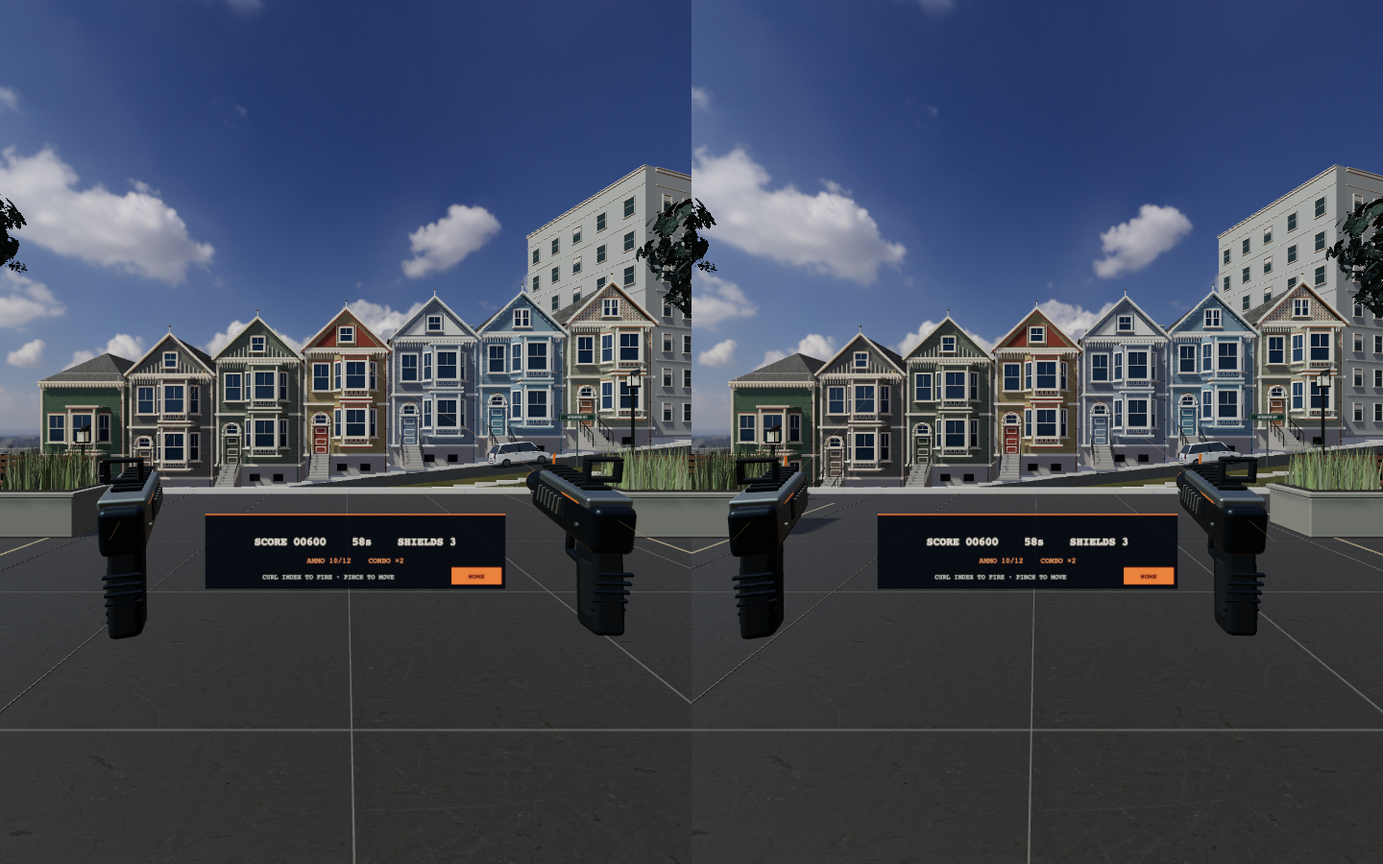
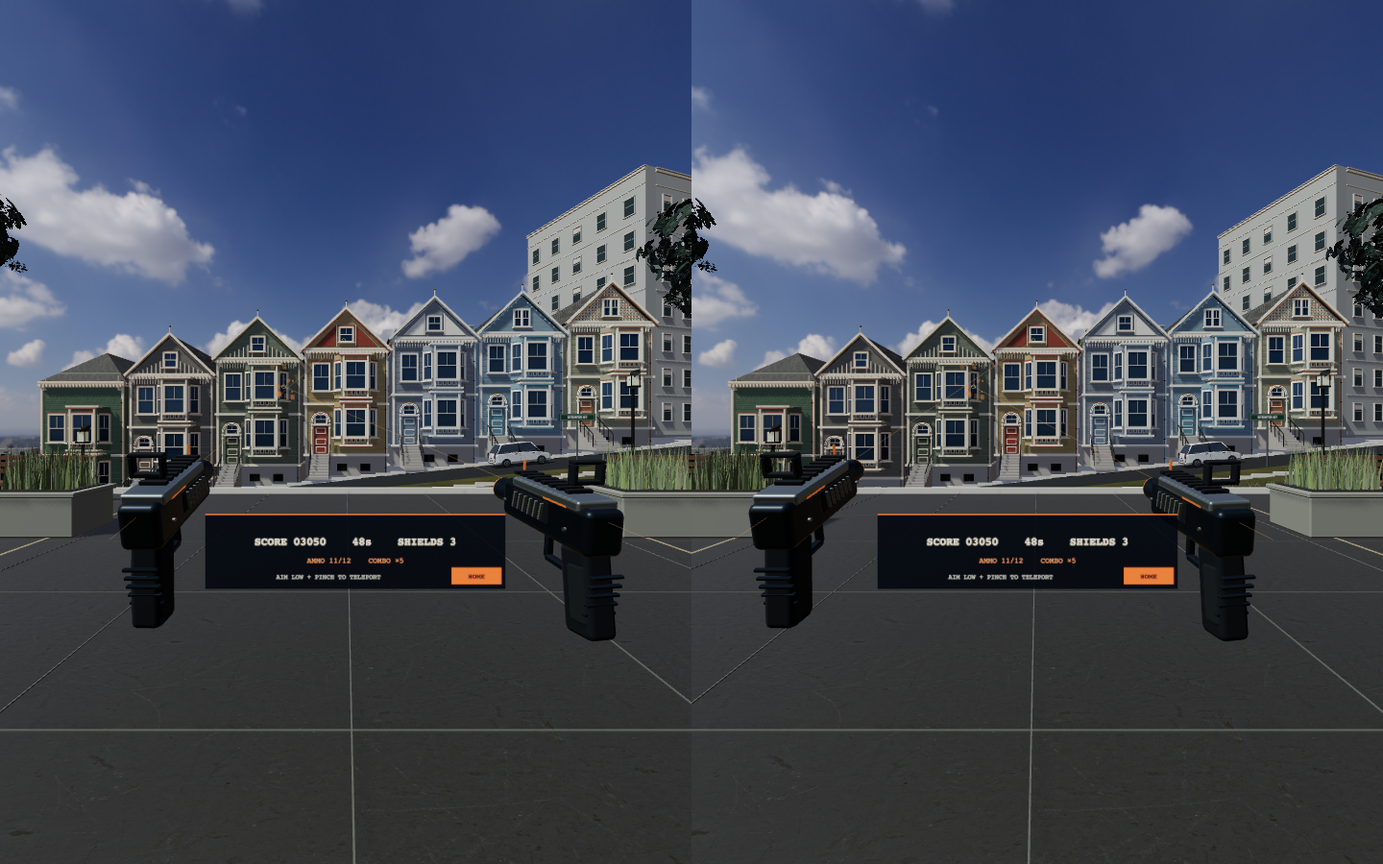
Support two-finger and pinch firing together

diff --git a/index.html b/index.html
@@ -1,4 +1,4 @@
-<!doctype html><html lang="en"><head><meta charset="UTF-8"><meta name="viewport" content="width=device-width,initial-scale=1,viewport-fit=cover"><meta name="theme-color" content="#101b20"><meta name="description" content="A Samsung Galaxy XR arcade drone shooter at San Francisco's Painted Ladies. Play in your browser or enter WebXR."><title>SFVR — Defend the skyline</title><meta property="og:type" content="website"><meta property="og:title" content="SFVR — Built for Samsung Galaxy XR"><meta property="og:description" content="Defend San Francisco with your hands. Aim, curl your index finger and clear the drones in a 60-second WebXR game."><meta property="og:url" content="https://kaushiksiva.github.io/SFVR/"><meta property="og:image" content="https://raw.githubusercontent.com/KaushikSiva/SFVR/main/docs/demo/poster.jpg"><meta name="twitter:card" content="summary_large_image"><link rel="icon" href="/mark.svg"><link rel="stylesheet" href="/src/style.css"></head><body>
+<!doctype html><html lang="en"><head><meta charset="UTF-8"><meta name="viewport" content="width=device-width,initial-scale=1,viewport-fit=cover"><meta name="theme-color" content="#101b20"><meta name="description" content="A Samsung Galaxy XR arcade drone shooter at San Francisco's Painted Ladies. Play in your browser or enter WebXR."><title>SFVR — Defend the skyline</title><meta property="og:type" content="website"><meta property="og:title" content="SFVR — Built for Samsung Galaxy XR"><meta property="og:description" content="Defend San Francisco with your hands. Extend two fingers or pinch to clear the drones in a 60-second WebXR game."><meta property="og:url" content="https://kaushiksiva.github.io/SFVR/"><meta property="og:image" content="https://raw.githubusercontent.com/KaushikSiva/SFVR/main/docs/demo/poster.jpg"><meta name="twitter:card" content="summary_large_image"><link rel="icon" href="/mark.svg"><link rel="stylesheet" href="/src/style.css"></head><body>
 <canvas id="scene" aria-label="Three-dimensional shooting arena at Alamo Square. Use the Start round button to play."></canvas><div class="vignette"></div><div id="damage-flash"></div>
 <header><a class="wordmark" href="./" aria-label="SFVR home"><span class="mark">↗</span> SF<span>VR</span><small>GALAXY XR</small></a><div class="location"><i></i> ALAMO SQUARE <span>37.7762° N · 122.4328° W</span></div><button id="help" class="icon-button" aria-label="How to play">?</button></header>
 <div id="loading" role="status"><span class="spinner"></span><span id="loading-text">Preparing the skyline</span></div>
@@ -6,7 +6,7 @@
 <div id="hud" hidden><div class="top-hud"><div class="wave"><span>WAVE</span><strong id="wave">01</strong></div><div class="timer"><span>TIME LEFT</span><strong id="time">60<span>s</span></strong><div class="time-track"><i id="time-bar"></i></div></div><div class="score"><span>SCORE</span><strong id="score">00000</strong></div></div><div id="reticle"><i></i><i></i><i></i><i></i><b></b></div><div id="hit-marker">×</div><div id="combo" class="combo"></div><div class="bottom-hud"><div class="shield-block"><span>SHIELDS</span><div id="shields"><i></i><i></i><i></i></div></div><div class="fight-help">AIM / FIRE <span>CLICK</span><b>·</b> MOVE <span>WASD</span><b>·</b> HOME <span>H</span><b>·</b> PAUSE <span>ESC</span></div><button id="reload" class="ammo"><strong id="ammo">12</strong><span id="ammo-label">/ 12 &nbsp; RELOAD [R]</span></button></div></div>
 <section id="pause" class="overlay" hidden><p class="kicker">TAKE A BREATHER</p><h2>ROUND PAUSED.</h2><p>The timer is stopped. Pick up where you left off.</p><button id="resume" class="button primary">RESUME <span>↗</span></button><button id="quit" class="text-button">Back to title</button></section>
 <section id="result" class="overlay" hidden><p id="result-eyebrow" class="kicker">SKYLINE SECURED</p><h2 id="rank">PARK GUARDIAN</h2><p class="result-label">FINAL SCORE</p><div id="final-score" class="final-score">00000</div><div class="result-stats"><div><strong id="final-kills">0</strong><span>DRONES CLEARED</span></div><div><strong id="final-accuracy">0%</strong><span>ACCURACY</span></div><div><strong id="final-best">0</strong><span>PERSONAL BEST</span></div></div><button id="again" class="button primary">PLAY AGAIN <span>↻</span></button><button id="back" class="text-button">Back to the skyline</button></section>
-<footer id="footer"><span>POINT. SHOOT. REPEAT.</span><span>SAMSUNG GALAXY XR · FINGER TRIGGER.</span><button id="sound" aria-label="Mute sound" aria-pressed="false">SOUND ON <i>▥</i></button></footer>
+<footer id="footer"><span>POINT. SHOOT. REPEAT.</span><span>SAMSUNG GALAXY XR · HAND-TRACKED.</span><button id="sound" aria-label="Mute sound" aria-pressed="false">SOUND ON <i>▥</i></button></footer>
 <div id="toast" role="status" hidden></div>
-<dialog id="help-dialog"><button id="close-help" class="close" aria-label="Close instructions">×</button><p class="kicker">FIELD NOTES / 01</p><h2>OWN THE SKY.</h2><p>Shoot drones before they breach the park. Survive 60 seconds with at least one shield.</p><dl><div><dt>Aim & fire</dt><dd>Move your mouse and click. Hold to fire repeatedly. On touchscreens, tap a drone.</dd></div><div><dt>Move around</dt><dd>On desktop, use WASD or arrow keys to move around the park. Press H to return to the starting position. Movement avoids planters and benches.</dd></div><div><dt>Keep it going</dt><dd>12 shots per magazine. Press R or tap your ammo to reload; an empty magazine reloads automatically.</dd></div><div><dt>Build a combo</dt><dd>Clear drones within 3 seconds of each other for up to 5× points. Gold drones are worth extra; purple drones take two hits.</dd></div><div><dt>In your headset</dt><dd>Open this page in Chrome on Galaxy XR, then select Enter Galaxy XR. Make a finger gun: raise your thumb, extend your index, and curl your other fingers. Aim the ray, then curl your index to fire one shot. Extend it again for the next shot. The aiming ring turns mint when ready. Pinch once to start or replay; controllers use their trigger. To move, point at clear ground, pinch and hold, then release on the orange ring. Red means blocked. Select HOME on the headset HUD to return. With controllers, the left stick moves and the right stick turns in 45° steps.</dd></div></dl><p class="small">WebXR needs a secure URL or localhost through ADB reverse. Finger trigger to shoot; pinch to move. Keep your play area clear while using the headset.</p></dialog>
+<dialog id="help-dialog"><button id="close-help" class="close" aria-label="Close instructions">×</button><p class="kicker">FIELD NOTES / 01</p><h2>OWN THE SKY.</h2><p>Shoot drones before they breach the park. Survive 60 seconds with at least one shield.</p><dl><div><dt>Aim & fire</dt><dd>Move your mouse and click. Hold to fire repeatedly. On touchscreens, tap a drone.</dd></div><div><dt>Move around</dt><dd>On desktop, use WASD or arrow keys to move around the park. Press H to return to the starting position. Movement avoids planters and benches.</dd></div><div><dt>Keep it going</dt><dd>12 shots per magazine. Press R or tap your ammo to reload; an empty magazine reloads automatically.</dd></div><div><dt>Build a combo</dt><dd>Clear drones within 3 seconds of each other for up to 5× points. Gold drones are worth extra; purple drones take two hits.</dd></div><div><dt>In your headset</dt><dd>Open this page in Chrome on Galaxy XR, then select Enter Galaxy XR. Aim at drones and either extend your index and middle fingers with your ring and little fingers curled, or pinch. Hold either gesture for repeated shots; relax your fingers or release the pinch to stop. The aiming ring turns mint during two-finger fire. Pinch once to start or replay; controllers use their trigger. To move, point at clear ground, pinch and hold, then release on the orange ring. Red means blocked. Select HOME on the headset HUD to return. With controllers, the left stick moves and the right stick turns in 45° steps.</dd></div></dl><p class="small">WebXR needs a secure URL or localhost through ADB reverse. Two fingers or pinch to shoot; aim at the ground and pinch to move. Keep your play area clear while using the headset.</p></dialog>
 <script type="module" src="/src/main.ts"></script></body></html>

diff --git a/src/main.ts b/src/main.ts
@@ -51,8 +51,8 @@ xrHud.name='XR status and movement';xrHud.position.set(0,-.39,-1.45);xrHud.rende
 let hudLast='',hudTime=0,domUpdateAt=0;
 function drawXRHUD(){
  const message=locomotion.aiming?'RELEASE PINCH TO MOVE':game.phase==='ready'?'POINT + PINCH TO START':game.phase==='over'?'ROUND OVER · SELECT TO PLAY AGAIN':game.phase==='paused'?'PAUSED · SELECT TO RESUME':`SCORE ${String(game.score).padStart(5,'0')}    ${game.remaining}s    SHIELDS ${game.shields}`;
- const detail=locomotion.aiming?(locomotion.valid?'CLEAR DESTINATION':'CHOOSE CLEAR GROUND INSIDE THE PARK'):game.phase==='playing'?(game.reloadLeft>0?'RELOADING…':`AMMO ${game.ammo}/12    ${game.combo>1?'COMBO ×'+game.combo:([...handTriggers.values()].some(t=>t.state==='ready')?'TRIGGER READY · CURL INDEX':'THUMB UP · EXTEND INDEX')}`):'SFVR / ALAMO SQUARE';
- const text=message+detail;if(text===hudLast&&clock-hudTime<1)return;hudLast=text;hudTime=clock;hudContext.clearRect(0,0,1024,256);hudContext.fillStyle='rgba(11,25,35,0.86)';hudContext.fillRect(0,0,1024,256);hudContext.fillStyle='#ff7b3d';hudContext.fillRect(0,0,1024,4);hudContext.textAlign='center';hudContext.font='bold 37px monospace';hudContext.fillStyle='#fff3dc';hudContext.fillText(message,512,106);hudContext.font='25px monospace';hudContext.fillStyle='#ffa46c';hudContext.fillText(detail,512,167);hudContext.font='22px monospace';hudContext.fillStyle='#dedbd0';hudContext.fillText('CURL INDEX TO FIRE · PINCH TO MOVE',420,222);hudContext.fillStyle='#ff7b3d';hudContext.fillRect(840,183,170,57);hudContext.font='bold 24px monospace';hudContext.fillStyle='#14212a';hudContext.fillText('HOME',925,221);hudTexture.needsUpdate=true;
+ const detail=locomotion.aiming?(locomotion.valid?'CLEAR DESTINATION':'CHOOSE CLEAR GROUND INSIDE THE PARK'):game.phase==='playing'?(game.reloadLeft>0?'RELOADING…':`AMMO ${game.ammo}/12    ${game.combo>1?'COMBO ×'+game.combo:([...handTriggers.values()].some(t=>t.state==='firing')?'TWO-FINGER BURST':'2 FINGERS OR PINCH TO FIRE')}`):'SFVR / ALAMO SQUARE';
+ const text=message+detail;if(text===hudLast&&clock-hudTime<1)return;hudLast=text;hudTime=clock;hudContext.clearRect(0,0,1024,256);hudContext.fillStyle='rgba(11,25,35,0.86)';hudContext.fillRect(0,0,1024,256);hudContext.fillStyle='#ff7b3d';hudContext.fillRect(0,0,1024,4);hudContext.textAlign='center';hudContext.font='bold 37px monospace';hudContext.fillStyle='#fff3dc';hudContext.fillText(message,512,106);hudContext.font='25px monospace';hudContext.fillStyle='#ffa46c';hudContext.fillText(detail,512,167);hudContext.font='22px monospace';hudContext.fillStyle='#dedbd0';hudContext.fillText('AIM LOW + PINCH TO TELEPORT',420,222);hudContext.fillStyle='#ff7b3d';hudContext.fillRect(840,183,170,57);hudContext.font='bold 24px monospace';hudContext.fillStyle='#14212a';hudContext.fillText('HOME',925,221);hudTexture.needsUpdate=true;
 }
 const controllers=[renderer.xr.getController(0),renderer.xr.getController(1)];
 const controllerHeld=new Set<THREE.XRTargetRaySpace>();
@@ -69,14 +69,13 @@ for(const controller of controllers){
  const cursor=new THREE.Mesh(new THREE.RingGeometry(.045,.06,24),new THREE.MeshBasicMaterial({color:'#ffb469',transparent:true,opacity:.85,depthWrite:false}));cursor.position.z=-12;controller.add(cursor);controller.userData.cursor=cursor;
  controller.addEventListener('connected',event=>{inputSources.set(controller,event.data);handTriggers.get(controller)!.reset();});
  controller.addEventListener('selectstart',event=>{
-  sound.unlock();const hand=!!event.data.hand;
-  if(hand){handSelecting.add(controller);handTriggers.get(controller)!.reset();}
-  if(locomotion.selectStart(controller)){resetHandTriggers();drawXRHUD();return;}
+  sound.unlock();const hand=!!event.data.hand||event.data.profiles.some(profile=>profile.includes('hand'));
+  if(hand){handSelecting.add(controller);handTriggers.get(controller)!.release();}
+  if(locomotion.selectStart(controller)){controllerHeld.clear();resetHandTriggers();drawXRHUD();return;}
   if(game.phase==='ready'||game.phase==='over'){start();return;}
   if(game.phase==='paused'){resume();return;}
-  // A hand without joint permission can still emit select; do not let that
-  // silently restore pinch firing. Only standard controller triggers fire here.
-  if(!hand&&event.data.gamepad?.mapping==='xr-standard'){controllerHeld.add(controller);fireFromController(controller);}
+  // Navigation and round controls consume the selection before shooting.
+  if(hand||event.data.gamepad?.mapping==='xr-standard'){controllerHeld.add(controller);fireFromController(controller);}
  });
  controller.addEventListener('selectend',()=>{
   controllerHeld.delete(controller);handSelecting.delete(controller);handBlockedUntil.set(controller,performance.now()+150);
@@ -97,7 +96,7 @@ async function checkXR(){
  if(supported){button.classList.replace('secondary','primary');$('play').classList.replace('primary','secondary');$('play').textContent='PLAY IN WINDOW';button.parentElement!.prepend(button);}
  button.innerHTML=supported?'ENTER GALAXY XR <span>◉</span>':'GALAXY XR SETUP <span>◉</span>';
  if(document.body.dataset.emulated==='true')$('xr-note').textContent='GENERIC XR INPUT TEST · not a physical headset';
- else if(supported)$('xr-note').textContent='Thumb up + curl index to fire · pinch to start / move';
+ else if(supported)$('xr-note').textContent='Extend index + middle or pinch to fire · aim low + pinch to move';
  else if(matchMedia('(pointer:coarse)').matches)$('xr-note').textContent='Tap a drone to fire · tap ammo to reload';
 }
 $('xr').onclick=async()=>{
@@ -173,7 +172,11 @@ function frame(now:number,xrFrame?:XRFrame){const dt=last?Math.min((now-last)/10
  if(game.phase==='playing'){
   game.step(dt);processEvents();
   if(!renderer.xr.isPresenting){if(desktopHeld)shootDesktop();}
-  else for(const controller of controllerHeld)fireFromController(controller);
+  else for(const controller of controllerHeld){
+   // End a held burst on tracking loss or when its ray enters navigation.
+   if(!controller.visible||locomotion.aiming||locomotion.pointerTarget(controller)){controllerHeld.delete(controller);continue;}
+   fireFromController(controller);
+  }
  }
  for(const t of game.targets){const d=drones.get(t.id);if(!d)continue;d.position.set(t.x,t.y,t.z);d.rotation.z=Math.sin(t.age*1.2+t.phase)*.12;for(const rotor of d.userData.rotors as THREE.Mesh[])rotor.rotation.y+=dt*45;const accent=d.userData.accent as THREE.MeshStandardMaterial;accent.emissiveIntensity=t.age>7?1.2+Math.sin(clock*14)*.7:.8;}
  for(let i=0;i<preview.length;i++){preview[i].position.y=3.2+i*.7+(reduced?0:Math.sin(clock*.8+i)*.35);preview[i].rotation.z=Math.sin(clock+i)*.08;for(const rotor of preview[i].userData.rotors as THREE.Mesh[])rotor.rotation.y+=dt*20;}
@@ -185,7 +188,7 @@ function frame(now:number,xrFrame?:XRFrame){const dt=last?Math.min((now-last)/10
   for(const t of game.targets){const p=aimRay.intersectSphere(new THREE.Sphere(new THREE.Vector3(t.x,t.y,t.z),t.kind==='heavy'?.95:.85),tempV);if(p){const d=p.distanceTo(aimRay.origin);if(d<distance){distance=d;aimed=true}}}
   const navigation=locomotion.pointerTarget(controller);if(navigation){distance=navigation.distance;aimed=true;}
   (controller.userData.line as THREE.Line).scale.z=distance/12;
-  const cursor=controller.userData.cursor as THREE.Mesh;cursor.visible=!navigation?.floor;cursor.position.z=-distance;cursor.scale.setScalar(distance/12);(cursor.material as THREE.MeshBasicMaterial).color.set(handTriggers.get(controller)!.state==='ready'?'#9cf0cb':aimed?'#fff5d8':'#ffb469');
+  const cursor=controller.userData.cursor as THREE.Mesh;cursor.visible=!navigation?.floor;cursor.position.z=-distance;cursor.scale.setScalar(distance/12);(cursor.material as THREE.MeshBasicMaterial).color.set(['ready','firing'].includes(handTriggers.get(controller)!.state)?'#9cf0cb':aimed?'#fff5d8':'#ffb469');
  }
  if(clock>hitUntil)$('hit-marker').style.opacity='0';if(clock>damageUntil)$('damage-flash').style.opacity='0';
  if(!renderer.xr.isPresenting&&now-domUpdateAt>70){domUpdateAt=now;

diff --git a/tests/hand-trigger.test.ts b/tests/hand-trigger.test.ts
@@ -7,6 +7,7 @@ import {relaxedHandPose} from 'iwer/lib/device/configs/hand/relaxed.js';
 
 const open:TriggerSample={index:.98,middle:.55,ring:.55,thumbGap:1};
 const closed:TriggerSample={...open,index:.58};
+const twoFingers:TriggerSample={...open,middle:.98};
 const arm=(t:HandTrigger,start=0)=>{for(let ms=start;ms<=start+80;ms+=20)assert.equal(t.update(open,ms),false);};
 test('a deliberate curl fires once; extending rearms',()=>{
  const t=new HandTrigger();arm(t);assert.equal(t.state,'ready');
@@ -14,12 +15,36 @@ test('a deliberate curl fires once; extending rearms',()=>{
  for(let ms=150;ms<450;ms+=20)assert.equal(t.update(closed,ms),false);
  arm(t,450);assert.equal(t.update(closed,550),false);assert.equal(t.update(closed,580),true);
 });
-test('pinch, open palm and a fist on first sight cannot fire',()=>{
+test('joint classifier leaves pinch to select events; open palm and fist do not fire',()=>{
  for(const sample of [{...closed,thumbGap:.1},{...closed,middle:.98,ring:.98},closed]){
   const t=new HandTrigger();for(let ms=0;ms<400;ms+=20)assert.equal(t.update(sample,ms),false);
  }
  const t=new HandTrigger();arm(t);t.update({...closed,thumbGap:.1},100);
  assert.equal(t.update(closed,120),false);assert.equal(t.update(closed,160),false);
+});
+test('two extended fingers hold fire after a short dwell and stop when folded',()=>{
+ const t=new HandTrigger();
+ for(let ms=0;ms<120;ms+=20)assert.equal(t.update(twoFingers,ms),false);
+ assert.equal(t.update(twoFingers,120),true);assert.equal(t.state,'firing');
+ for(let ms=140;ms<400;ms+=20)assert.equal(t.update(twoFingers,ms),true);
+ assert.equal(t.update(closed,400),false);assert.notEqual(t.state,'firing');
+});
+test('two-finger hysteresis tolerates slight bending but rejects open palms and pinches',()=>{
+ const t=new HandTrigger();t.update(twoFingers,0);t.update(twoFingers,80);t.update(twoFingers,140);
+ assert.equal(t.update({...twoFingers,index:.86,middle:.87},160),true);
+ assert.equal(t.update({...twoFingers,ring:.98},180),false);
+ for(let ms=200;ms<400;ms+=20)assert.equal(t.update({...twoFingers,thumbGap:.1},ms),false);
+});
+test('interrupted two-finger bursts require release before restarting',()=>{
+ for(const interrupt of [(t:HandTrigger)=>t.update(null,160),(t:HandTrigger)=>t.update(twoFingers,160,true),(t:HandTrigger)=>t.reset(),(t:HandTrigger)=>t.update(twoFingers,400)]){
+  const t=new HandTrigger();t.update(twoFingers,0);t.update(twoFingers,80);assert.equal(t.update(twoFingers,140),true);interrupt(t);
+  for(let ms=420;ms<650;ms+=20)assert.equal(t.update(twoFingers,ms),false);
+  t.update(closed,660);t.update(twoFingers,680);t.update(twoFingers,760);assert.equal(t.update(twoFingers,820),true);
+ }
+});
+test('a deliberate pinch releases a two-finger burst so either gesture can be used next',()=>{
+ const t=new HandTrigger();t.update(twoFingers,0);t.update(twoFingers,80);assert.equal(t.update(twoFingers,140),true);
+ t.release();t.update(null,160,true);t.update(twoFingers,180);t.update(twoFingers,260);assert.equal(t.update(twoFingers,320),true);
 });
 test('tracking loss, navigation, pause and a frame gap require fresh extension',()=>{
  for(const reset of [(t:HandTrigger)=>t.update(null,100),(t:HandTrigger)=>t.update(open,100,true),(t:HandTrigger)=>t.reset(),(t:HandTrigger)=>t.update(closed,300)]){

diff --git a/src/hand-trigger.ts b/src/hand-trigger.ts
@@ -19,20 +19,38 @@ export function measureTrigger(joint:(name:XRHandJoint)=>Point|null):TriggerSamp
  return Object.values(sample).every(Number.isFinite)?sample:null;
 }
 
-/** One shot per deliberate index extension → curl. A pinch is never a trigger. */
+/** Two extended fingers hold fire; the earlier index-curl trigger also works.
+ * Native pinch/select events are handled separately by the input router. */
 export class HandTrigger {
- state:'untracked'|'blocked'|'ready'|'fired'|'rest'='untracked';
+ state:'untracked'|'blocked'|'ready'|'fired'|'firing'|'rest'='untracked';
  private armed=false;
  private openSince?:number;
  private closedSince?:number;
  private last?:number;
+ private twoFingerSince?:number;
+ private twoFingerNeedsRelease=false;
  reset(state:HandTrigger['state']='untracked'){
+  // An interrupted burst must not restart on tracking recovery or navigation exit.
+  if(this.twoFingerSince!==undefined)this.twoFingerNeedsRelease=true;
+  this.twoFingerSince=undefined;
   this.armed=false;this.openSince=undefined;this.closedSince=undefined;this.last=undefined;this.state=state;
  }
+ /** A deliberate pinch also releases the two-finger pose. */
+ release(){this.reset('rest');this.twoFingerNeedsRelease=false;}
  update(sample:TriggerSample|null,now:number,blocked=false){
   if(!sample||blocked){this.reset(blocked?'blocked':'untracked');return false;}
   if(this.last!==undefined&&(now-this.last>120||now<this.last))this.reset();
   this.last=now;
+  const extended=this.state==='firing'?.82:.90;
+  if(sample.index>=extended&&sample.middle>=extended&&sample.ring<.85&&sample.thumbGap>=.38){
+   this.armed=false;this.openSince=undefined;this.closedSince=undefined;
+   if(this.twoFingerNeedsRelease){this.state='rest';return false;}
+   this.twoFingerSince??=now;
+   if(now-this.twoFingerSince>=120){this.state='firing';return true;}
+   this.state='rest';return false;
+  }
+  this.twoFingerSince=undefined;this.twoFingerNeedsRelease=false;
+  if(this.state==='firing')this.state='rest';
   // Keep the thumb away from the index and grip with the other fingers.
   if(sample.thumbGap<.38||sample.middle>.85||sample.ring>.85){this.reset('rest');return false;}
   if(sample.index>=.90){

diff --git a/src/dev-xr.ts b/src/dev-xr.ts
@@ -29,7 +29,17 @@ export function installTestRuntime(){
   const middle=joints[`middle-finger-${part}`].offsetMatrix;
   for(let i=12;i<15;i++)index[i]=indexBase[i]+middle[i]-middleBase[i];
  }
- for(const hand of Object.values(device.hands))if(hand)hand[P_HAND_INPUT].poses.trigger=triggerPose;
+ const twoFingerPose=structuredClone(pointHandPose);
+ const twoJoints=twoFingerPose.jointTransforms;
+ for(const part of ['phalanx-intermediate','phalanx-distal','tip'] as const){
+  const middle=twoJoints[`middle-finger-${part}`].offsetMatrix;
+  const index=twoJoints[`index-finger-${part}`].offsetMatrix;
+  for(let i=12;i<15;i++)middle[i]=middleBase[i]+index[i]-indexBase[i];
+ }
+ for(const hand of Object.values(device.hands))if(hand){
+  hand[P_HAND_INPUT].poses.trigger=triggerPose;
+  hand[P_HAND_INPUT].poses.twoFinger=twoFingerPose;
+ }
  device.primaryInputMode='hand';device.installRuntime({forceInstall:true});
  (window as any).__xrEmulator=device;
  document.body.dataset.emulated='true';

diff --git a/README.md b/README.md
@@ -2,7 +2,7 @@
 
 **Defend the skyline with your hands. Built for Samsung Galaxy XR.**
 
-SFVR is a hand-tracked arcade shooter set in San Francisco's Alamo Square. Stand opposite the Painted Ladies, aim at incoming drones, and curl your index finger to fire. Your head controls the view; your hands control the action.
+SFVR is a hand-tracked arcade shooter set in San Francisco's Alamo Square. Stand opposite the Painted Ladies, aim at incoming drones, and extend two fingers or pinch to fire. Your head controls the view; your hands control the action.
 
 **[Play the game](https://kaushiksiva.github.io/SFVR/)** · **[Watch the 60-second demo](https://github.com/KaushikSiva/SFVR/releases/download/v0.2.0/sfvr-demo.mp4)** · [Headset setup](docs/HEADSET.md)
 
@@ -18,7 +18,7 @@ The environment uses full-volume buildings, detailed quadrotors and blasters, te
 
 ## Play on Samsung Galaxy XR
 
-Open the live game in **Chrome on Galaxy XR**, choose **Enter Galaxy XR**, and allow tracking. Pinch once to start. Make a finger gun: thumb up, index extended, other fingers curled. Aim the ray, then curl your index to shoot. Extend it again for the next shot; a mint aiming ring means ready. Pinching does not shoot. To move, aim at clear ground, hold a pinch, then release on the orange ring. Red means blocked. Select **HOME** on the headset HUD to return. Controllers use their trigger to fire, with left-stick travel and right-stick 45° turns.
+Open the live game in **Chrome on Galaxy XR**, choose **Enter Galaxy XR**, and allow tracking. Pinch once to start. Aim at drones and either extend your index and middle fingers with the other fingers curled, or pinch. Hold either gesture for repeated shots; fold your fingers or release the pinch to stop. To move, aim at clear ground, hold a pinch, then release on the orange ring. Red means blocked. Select **HOME** on the headset HUD to return. Controllers use their trigger to fire, with left-stick travel and right-stick 45° turns.
 
 For local development, connect the headset by USB, enable USB debugging, and accept the headset's authorization prompt:
 
@@ -47,7 +47,7 @@ For a laptop preview, run `npm run dev` and open **http://127.0.0.1:5186**. Mous
 
 ## Tested, with clear boundaries
 
-The project has run on a physical Galaxy XR with scored shots using the earlier pinch controls, shown in the recorded demo. Finger-trigger controls and locomotion have automated coverage; their physical-headset check is pending. Automated checks cover a full round, touch input, reload, pause, replay and simulated stereo hand input. Run `npm test`, `npm run build`, `npm run test:browser`, `npm run test:xr`, and `npm run test:locomotion`.
+The project has run on a physical Galaxy XR with scored shots using the earlier pinch controls, shown in the recorded demo. The new two-finger control and locomotion have automated coverage; their physical-headset check is pending. Automated checks cover a full round, touch input, reload, pause, replay and simulated stereo hand input. Run `npm test`, `npm run build`, `npm run test:browser`, `npm run test:xr`, and `npm run test:locomotion`.
 
 Qualcomm involvement is through the headset's Snapdragon hardware and browser rendering. This version has **no QNN or ExecuTorch inference**. The city is an authored approximation; sustained performance and comfort need broader device testing.
 

diff --git a/docs/HEADSET.md b/docs/HEADSET.md
@@ -41,8 +41,8 @@ serial. The automatic reconnection watcher targets Samsung model SM-I610.
 
 ## Controls
 
-- **Fire with hands:** make a finger gun with thumb up, index extended, and other fingers curled. Aim the ray; when its ring turns mint, curl your index to shoot once. Extend it again to rearm. Keep thumb and index apart.
-- **Start / replay / resume:** pinch once. Pinching never shoots drones.
+- **Fire with hands:** aim at drones and extend your index and middle fingers, with ring and little fingers curled. Hold this pose for repeated shots; fold the fingers to stop. A mint ring shows two-finger firing. **Pinch-to-fire also works:** hold a pinch for a burst, release to stop. The earlier single-index curl gesture still fires one shot.
+- **Start / replay / resume:** pinch once. That selection does not also fire a shot.
 - **Teleport:** during play, point either hand at clear ground. Hold a pinch to choose a destination and release to move. An orange ring means clear; red means blocked. Aim away before releasing to cancel.
 - **Home:** point at **HOME** on the headset HUD and pinch to return to the starting position.
 - **Controllers:** trigger fires or teleports when aimed at ground; the left stick moves relative to your viewing direction, and the right stick turns 45° per deflection. Return the stick to center before turning again.
@@ -65,4 +65,4 @@ only for WebXR API/input regression checks, not Samsung hardware emulation.
 
 Official platform documentation: [Android XR for WebXR](https://developer.android.com/develop/xr/web).
 
-Locomotion has automated coverage for hand teleporting, room-scale offsets, blocked destinations, cancellation, Home, stick movement, snap turns and keyboard controls. Finger-trigger detection has unit and WebXR integration coverage for both hands, pinch rejection, one shot per curl, tracking recovery and pause. Physical Galaxy XR validation of finger triggers and movement/comfort is still pending.
+Locomotion has automated coverage for hand teleporting, room-scale offsets, blocked destinations, cancellation, Home, stick movement, snap turns and keyboard controls. Hand firing has unit and WebXR integration coverage for both hands, two-finger bursts, pinch bursts, release-to-stop, tracking recovery, navigation and pause. Physical Galaxy XR validation of the new two-finger gesture and movement/comfort is still pending.

diff --git a/docs/DESIGN.md b/docs/DESIGN.md
@@ -6,7 +6,7 @@ Content plan: full-canvas SF environment and one start action; a minimal score/t
 
 Interaction thesis: a short title-to-arena transition, responsive shot/recoil and hit particles, and a clear combo/round-result reveal. Use explicit point-and-release teleporting, viewer-relative stick movement and discrete snap turns; reduce decorative motion when requested.
 
-Game: 60-second drone-defense rounds in a bounded park arena. Mouse/touch aim and fire on desktop/mobile. WebXR joint tracking detects an extended-to-curled index finger with a raised thumb and curled remaining fingers. Each deliberate curl fires once; pinch is reserved for selection and teleporting. Controllers retain trigger firing. Three shield charges, rechargeable magazine and increasing spawn pressure. No artificial camera shake in XR.
+Game: 60-second drone-defense rounds in a bounded park arena. Mouse/touch aim and fire on desktop/mobile. WebXR joint tracking detects extended index and middle fingers with the remaining fingers curled, firing while held. Native pinch input also fires while held. Navigation and menu selections take priority over firing. The earlier index-curl trigger remains available for single shots. Controllers retain trigger firing. Three shield charges, rechargeable magazine and increasing spawn pressure. No artificial camera shake in XR.
 
 The environment reuses the user's CORTEX authored Painted Ladies and DataSF context, with a new simplified park and arcade gameplay. It is an artistic approximation. The original CORTEX app remains independently runnable.
 
